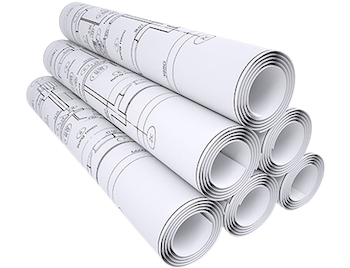
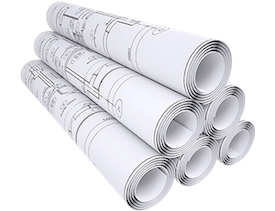
Replaced images with files hosted on imgBB

diff --git a/src/sales.html b/src/sales.html
@@ -104,9 +104,9 @@ Browse our products below, and email xyz@cesr.com to place an order. Please incl
 <div class="container equipment-sales-hero">
     <div class="row">
         <div class="col">
-            <img src="/Users/samanthajones/Desktop/cesr-shelter/images/canon2.png" />
+            <img src="https://i.ibb.co/cQtysh7/canon2.png" alt="Canon U.S.A">
             <br/>
-            <img src="/Users/samanthajones/Desktop/cesr-shelter/images/canontx30000-clean.png" />
+            <img src="https://i.ibb.co/hXnmypx/canontx30000-clean.png" alt="CANON-TX30000" />
             <ul>
                 <li>imagePROGRAF TZ-30000 MFP Z36</li>
                 <li>imagePROGRAF TX-3100 MFP Z36</li>
@@ -114,9 +114,9 @@ Browse our products below, and email xyz@cesr.com to place an order. Please incl
             </ul>
         </div>
         <div class="col">
-            <img src="/Users/samanthajones/Desktop/cesr-shelter/images/kiplogo.png" />
+            <img src="https://i.ibb.co/M9DhMLx/kiplogo.png" alt="KIP" />
             <br/>
-            <img src="/Users/samanthajones/Desktop/cesr-shelter/images/kip-860-clean.png" />
+            <img src="https://i.ibb.co/L9Qhqp2/kip-860-clean.png" alt="KIP-860" />
             <ul>
                 <li>Kip 660 Multi-Function Color System</li>
                 <li>Kip 860 Multi-Function Color System</li>
@@ -124,9 +124,9 @@ Browse our products below, and email xyz@cesr.com to place an order. Please incl
             </ul>
         </div>
         <div class="col">
-            <img src="/Users/samanthajones/Desktop/cesr-shelter/images/Kyocera.png" />
+            <img src="https://i.ibb.co/0B96mGX/Kyocera.png" alt="Kyocera" />
             <br/>
-          <img src="/Users/samanthajones/Desktop/cesr-shelter/images/kyocera.5054ci-clean.png" />
+        <img src="https://i.ibb.co/vX3BdJn/kyocera-5054ci-clean.png" alt="Kyocera-5054ci" />
         <ul>
             <li>4054 or 5054 CZ</li>
             <li>8124</li>

diff --git a/src/printNow.html b/src/printNow.html
@@ -98,8 +98,10 @@
     <div class="container print-services-large">
         <div class="row">
             <div class="col image-display-background">
-           <p>     
-        <img src="/Users/samanthajones/Desktop/cesr-shelter/images/kip600printing-removebg-preview.png" class="img-fluid" /> 
+           <p>  
+            <img src="https://i.ibb.co/JBQX3qt/kip600printing-removebg-preview.png" alt="kip600printing-removebg-preview" class="img-fluid"
+                />
+         
             </p>
             
     </div>
@@ -142,7 +144,7 @@
         </div>
         <div class="col image-display-background">
             <p>
-        <img src="/Users/samanthajones/Desktop/cesr-shelter/images/rolledstack-removebg-preview.png" />
+        <img src="https://i.ibb.co/0cXJSkt/rolledstack-removebg-preview.png" alt="rolledstack-removebg-preview" class="img-fluid" />
         </p>
         
         </div>
@@ -154,7 +156,7 @@
         <div class="row">
         <div class="col image-display-background">
             <p>
-            <img src="/Users/samanthajones/Desktop/cesr-shelter/images/highvolume.jpg" />
+            <img src="https://i.ibb.co/WGbNGDM/Spiral-Comb-removebg-preview.png" alt="Spiral-Comb-removebg-preview" class="img-fluid"/>
             </p>
     </div>
     <div class="col description-display-background">

diff --git a/src/index.html b/src/index.html
@@ -181,13 +181,15 @@
 <div class="container partner-logo-box">
 <div class="row">
 <div class="col">
-<img src="/Users/samanthajones/Desktop/cesr-shelter/images/canon2.png" alt="Canon U.S.A" />
+
+<img src="https://i.ibb.co/cQtysh7/canon2.png" alt="Canon U.S.A" >
 </div>
 <div class="col">
-<img src="/Users/samanthajones/Desktop/cesr-shelter/images/kiplogo.png" alt="KIP"/>
+<img src="https://i.ibb.co/M9DhMLx/kiplogo.png" alt="KIP" />
+
 </div>
 <div class="col">
-<img src="/Users/samanthajones/Desktop/cesr-shelter/images/Kyocera.png" alt="Kyocera Copystar" />
+<img src="https://i.ibb.co/0B96mGX/Kyocera.png" alt="Kyocera" />
 </div>
 </div>
 </div>

diff --git a/src/meters.html b/src/meters.html
@@ -82,7 +82,7 @@
 <div class="container meter-read-hero">
 <div class="row row-cols-2">
 <div class="col meter-read-image">
-<img class="img-fluid" src="/Users/samanthajones/Desktop/cesr-shelter/images/findingmeter.jpeg" />
+<img src="https://i.ibb.co/dDdRPXd/findingmeter.jpg" alt="findingmeter" class="img-fluid" />
 </div>
 
 <div class="col meter-read-description">

diff --git a/src/service.html b/src/service.html
@@ -85,7 +85,8 @@
     </div>
 
     <div class="col services-image">
-        <img class="rounded img-fluid" src="/Users/samanthajones/Desktop/cesr-shelter/images/service2.jpeg" />
+         
+        <img src="https://i.ibb.co/Z6P3JGW/service2.jpg" alt="service2" class="rounded img-fluid" />
 
     </div>
 </div>
